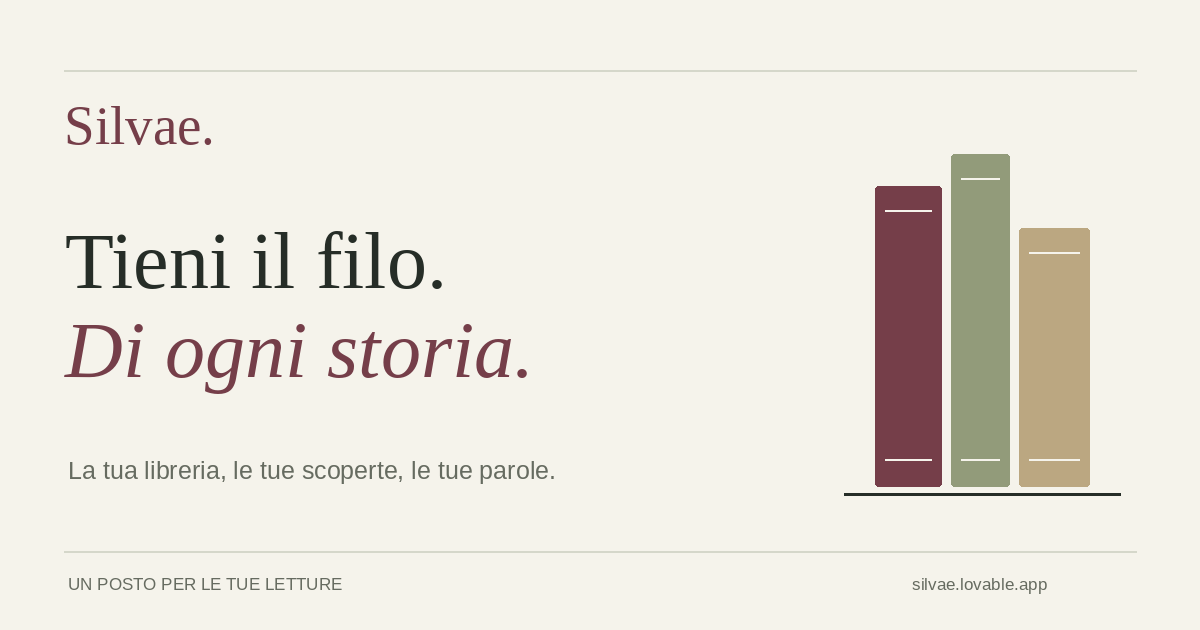
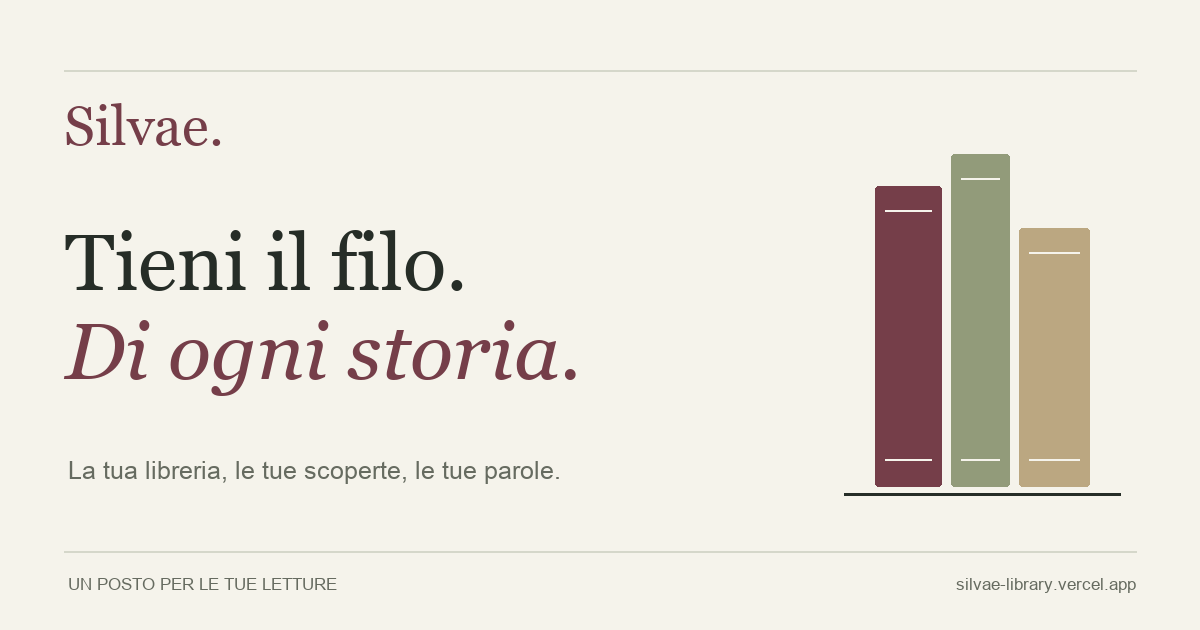
Use the independent Silvae address for public links

diff --git a/services/catalogue/api/mangadex.ts b/services/catalogue/api/mangadex.ts
@@ -85,7 +85,7 @@ export async function GET(request: Request) {
             const response = await fetch(url, {
               headers: {
                 Accept: "application/json",
-                "User-Agent": "Silvae/1.0 (+https://silvae.lovable.app)",
+                "User-Agent": "Silvae/1.0 (+https://silvae-library.vercel.app)",
               },
               redirect: "error",
               signal: AbortSignal.timeout(8000),

diff --git a/src/lib/work-titles.ts b/src/lib/work-titles.ts
@@ -32,7 +32,7 @@ export async function localizedWorkTitles(
         headers: {
           Accept: "application/sparql-results+json",
           ...(typeof window === "undefined"
-            ? { "User-Agent": "Silvae/1.0 (https://silvae.lovable.app)" }
+            ? { "User-Agent": "Silvae/1.0 (https://silvae-library.vercel.app)" }
             : {}),
         },
       },

diff --git a/src/lib/site-seo.ts b/src/lib/site-seo.ts
@@ -1,4 +1,4 @@
-export const SITE_URL = "https://silvae.lovable.app";
+export const SITE_URL = "https://silvae-library.vercel.app";
 export const SOCIAL_IMAGE = `${SITE_URL}/images/silvae-social.png`;
 export const SOCIAL_ALT =
   "Silvae. Tieni il filo di ogni storia. La tua libreria, le tue scoperte, le tue parole.";

diff --git a/scripts/generate-social-preview.py b/scripts/generate-social-preview.py
@@ -50,7 +50,7 @@ for x, y, w, h, color in [(875, 186, 66, 300, '#753e49'), (951, 154, 58, 332, '#
 d.line((844, 494, 1120, 494), fill='#262d27', width=3)
 d.line((64, 551, 1136, 551), fill='#d5d7ca', width=2)
 d.text((68, 574), 'UN POSTO PER LE TUE LETTURE', font=f(sans, 17), fill='#666b60')
-d.text((912, 574), 'silvae.lovable.app', font=f(sans, 17), fill='#666b60')
+d.text((1136, 574), 'silvae-library.vercel.app', font=f(sans, 17), fill='#666b60', anchor='ra')
 output = root / 'public/images/silvae-social.png'
 im.save(output, optimize=True)
 print(f'{output.name}: {output.stat().st_size:,} bytes, 1200 × 630')

diff --git a/README.md b/README.md
@@ -7,11 +7,11 @@ discovering books, saving favorite passages, and sharing reading journeys.
 It supports books, graphic novels, and manga series through an editorial interface
 with light and dark themes.
 
-Live: https://silvae.lovable.app
+Live: https://silvae-library.vercel.app
 
 Hosted on Lovable because it's free and easy to use.
 
-[Open Silvae](https://silvae.lovable.app) · [Report an issue](https://github.com/MettiFire/silvae/issues)
+[Open Silvae](https://silvae-library.vercel.app) · [Report an issue](https://github.com/MettiFire/silvae/issues)
 
 ## 📚 Features 
 
